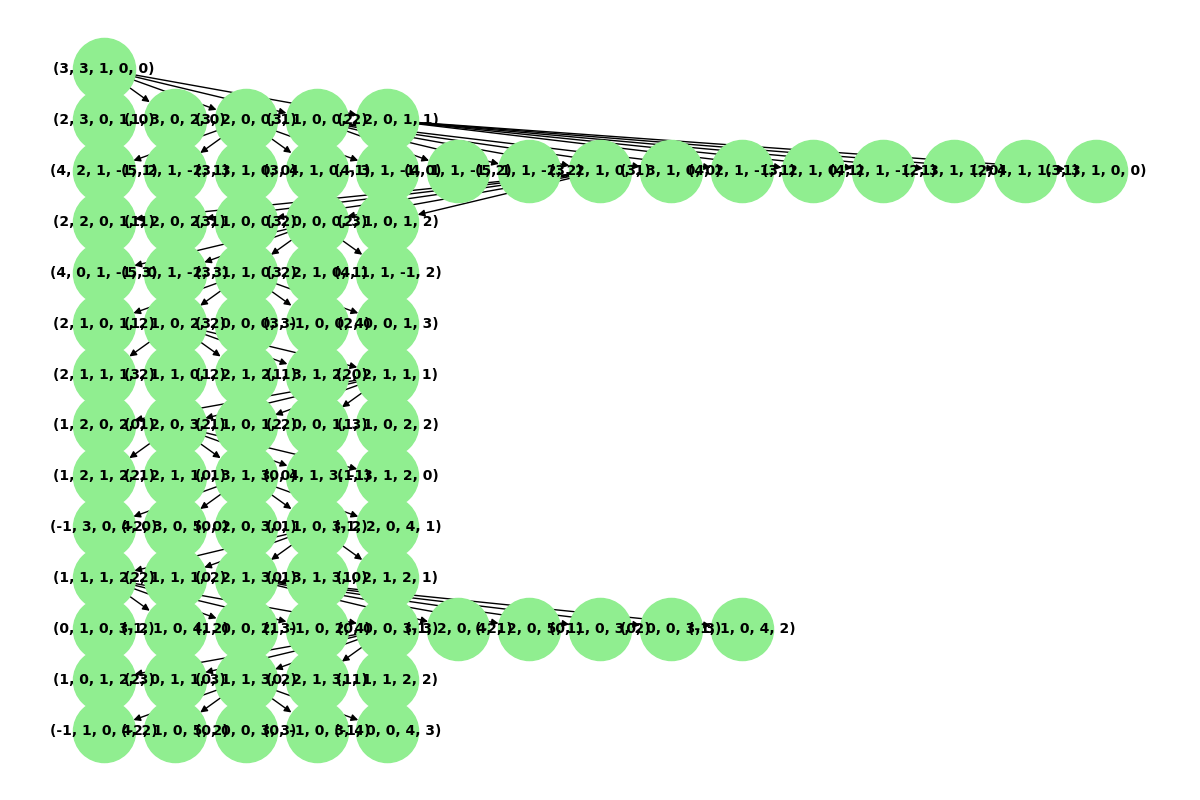
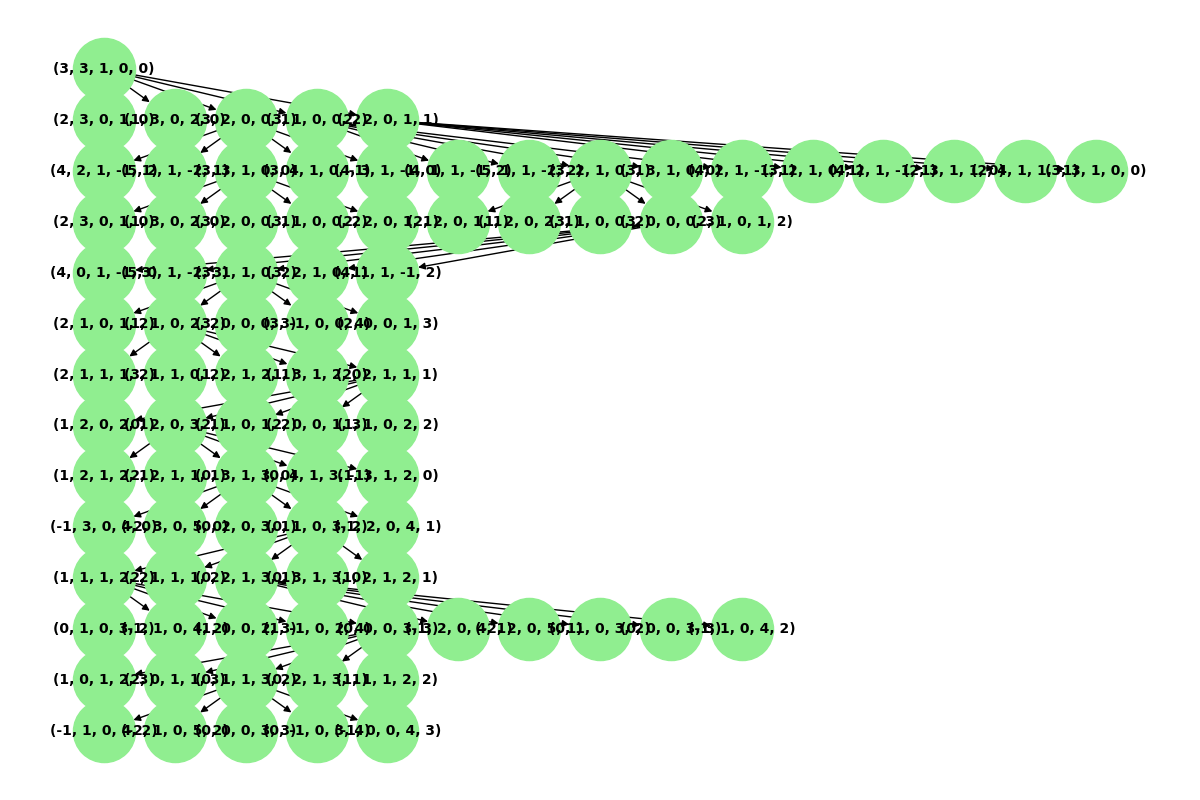
cambios realizados

diff --git a/anchura.py b/anchura.py
@@ -50,7 +50,6 @@ def expandir_nodo(nodo, node_id_counter, estados_generados):
         hijos.append(nuevo_nodo)
         node_id_counter += 1
     return hijos, node_id_counter
-
 def bfs(nodo_raiz):
     inicio_tiempo = time.time()
     proceso = psutil.Process()
@@ -58,9 +57,7 @@ def bfs(nodo_raiz):
 
     frontera = deque([nodo_raiz])
     estados_visitados = set()
-    estados_visitados.add(nodo_raiz.estado)
     estados_generados = set()
-    estados_generados.add(nodo_raiz.estado)
     nodos_visitados = 1
     node_id_counter = 1
 
@@ -70,21 +67,22 @@ def bfs(nodo_raiz):
 
     while frontera:
         nodo_actual = frontera.popleft()
-        
-        # Agregar un pequeño retraso para simular trabajo
         time.sleep(0.01)  # Retardo de 10ms
         
         hijos, node_id_counter = expandir_nodo(nodo_actual, node_id_counter, estados_generados)
         for hijo in hijos:
             all_nodes.append(hijo)
             all_edges.append((nodo_actual.id, hijo.id))
+
+            # Si el estado es válido, se debe continuar la exploración
             if hijo.valido:
                 if hijo.estado not in estados_visitados:
                     frontera.append(hijo)
                     estados_visitados.add(hijo.estado)
                     nodos_visitados += 1
-                    if hijo.estado == (0, 0, 0, 3, 3):
-                        soluciones.append(hijo)
+                if hijo.estado == (0, 0, 0, 3, 3):  # Condición de solución
+                    soluciones.append(hijo)  # Guardar todas las soluciones
+                    # No detenemos la búsqueda aquí para que encuentre más soluciones
 
     fin_tiempo = time.time()
     tiempo_total = fin_tiempo - inicio_tiempo

diff --git a/interfaz.py b/interfaz.py
@@ -16,7 +16,7 @@ def run_app_py(search_type):
         script_name, search_type_argument, image_name = search_type_map.get(search_type, ("anchura.py", "anchura", "anchura.png"))
 
         # Especificar la ruta completa de la carpeta donde se encuentran los scripts
-        script_path = os.path.join("C:/Users/moyol/OneDrive/Documentos/IA/BusquedasNoInformadas/IAbusqueda", script_name)
+        script_path = os.path.join("C:\\Users\\Personal\\Desktop\\IA_OvejasyLobos", script_name)
 
         # Verificar si el archivo existe antes de ejecutarlo
         if not os.path.isfile(script_path):
@@ -29,7 +29,7 @@ def run_app_py(search_type):
         )
 
         # Ruta completa de la imagen generada
-        image_path = os.path.join("C:/Users/moyol/OneDrive/Documentos/IA/BusquedasNoInformadas/IAbusqueda", image_name)
+        image_path = os.path.join("C:\\Users\\Personal\\Desktop\\IA_OvejasyLobos", image_name)
 
         return result.stdout, image_path  # Devuelve la salida del script y la ruta de la imagen
     except subprocess.CalledProcessError as e:
